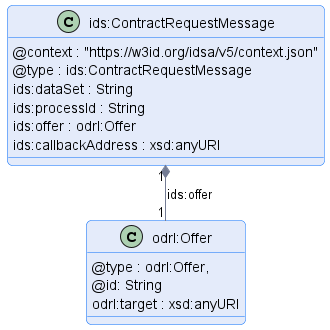
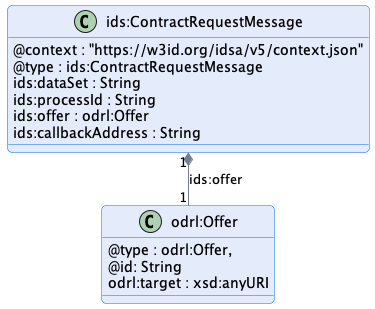
add ContractOfferMessage Schemas and Explanations (#45)
* adding the contract offer schemas and explanations
* fix bug at callbackAddress also for contractrequestmessage

Changed region(s): [[0.0, 0.0, 1.0, 0.9903]]

diff --git a/negotiation/contract.negotiation.protocol.md b/negotiation/contract.negotiation.protocol.md
@@ -86,7 +86,27 @@ The _ContractRequestMessage_ is sent by a consumer to initiate a contract negoti
 - `callbackAddress` is a URL indicating where messages to the consumer should be sent in asynchronous settings. If the address is not understood, the provider MUST return an
   UNRECOVERABLE error.
 
-### 2. ContractAgreementMessage
+
+### 2. ContractOfferMessage
+
+![](./message/diagram/contract-offer-message.png)
+
+**Sent by**: Provider
+
+**Resulting State**: PROVIDER_OFFERED, TERMINATED
+
+**Example**: [ContractOfferMessage](./message/contract-offer-message.json)
+
+**Response**: `ContractNegotiation` (see [Section ContractRequestMessage](#1-contractrequestmessage)) containing the negotiation id or ERROR
+
+**Schema**: [ContractOfferMessageShape](./message/shape/contract-offer-message-shape.ttl) and [ContractOfferMessage JSON Schema](./message/schema/contract-offer-message-schema.json)
+
+#### Description
+
+The _ContractOfferMessage_ is sent by a provider to initiate a contract negotiation.
+
+
+### 3. ContractAgreementMessage
 
 ![](./message/diagram/contract-agreement-message.png)
 
@@ -108,7 +128,7 @@ A _ContractAgreementMessage_ must contain a `processId`.
 
 A _ContractAgreementMessage_ must contain an ODRL Agreement.
 
-### 3. ContractAgreementVerificationMessage
+### 4. ContractAgreementVerificationMessage
 
 
 ![](./message/diagram/contract-agreement-verification-message.png)
@@ -130,7 +150,7 @@ validated or is incorrect.
 
 A _ContractAgreementVerificationMessage_ must contain a `processId`.
 
-### 4. ContractNegotiationEventMessage
+### 5. ContractNegotiationEventMessage
 
 
 ![](./message/diagram/contract-negotiation-event-message.png)
@@ -160,7 +180,7 @@ It is an error for a provider to send a ContractNegotiationEventMessage with an 
 Note that contract events are not intended for propagation of agreement state after a contract negotiation has entered a terminal state. It is considered an error for a consumer or
 provider to send a contract negotiation event after the negotiation state machine has entered a terminal state.
 
-### 5. ContractNegotiationTerminationMessage
+### 6. ContractNegotiationTerminationMessage
 
 ![](./message/diagram/contract-negotiation-termination-message.png)
 
